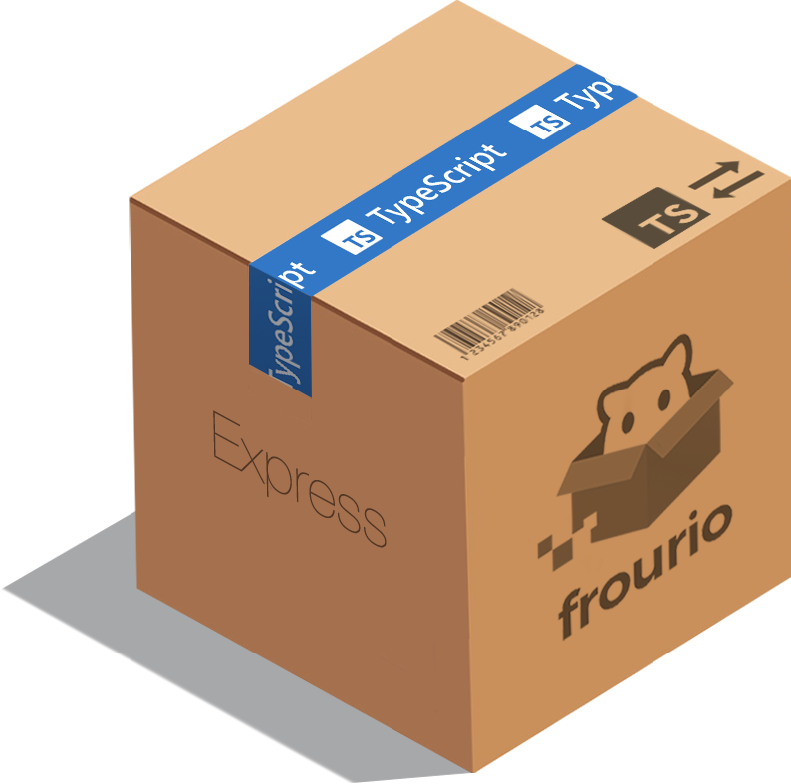
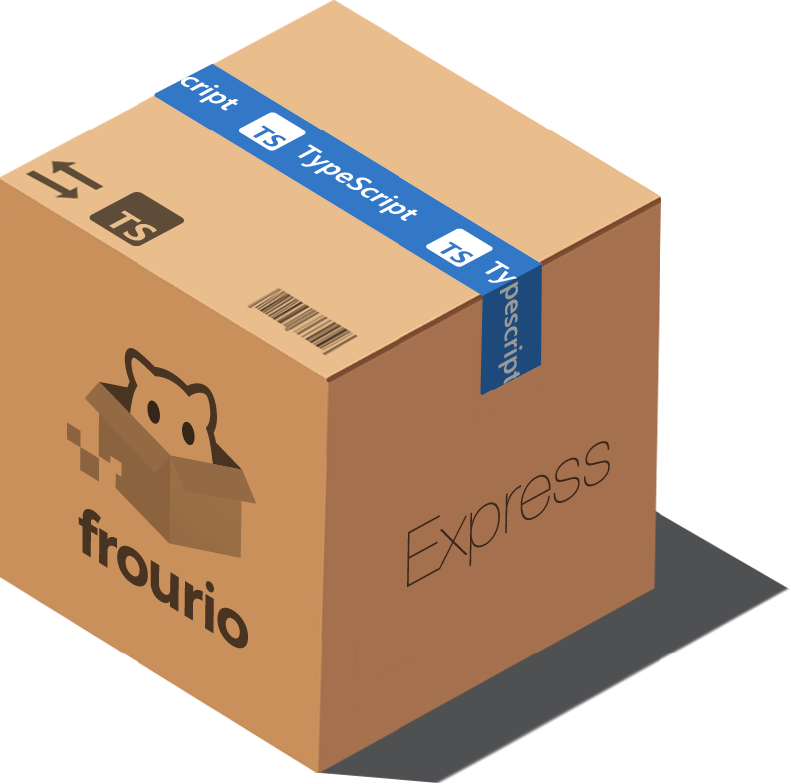
feat: flip moving boxes

diff --git a/src/components/movingBoxes.module.css b/src/components/movingBoxes.module.css
@@ -13,8 +13,8 @@
     min-height: 100vh;
     height: calc(100vw / 16 * 9);
     top: 50%;
-    left: 50%;
-    transform: translate(-50%, -50%);
+    left: 0;
+    transform: translate(0%, -50%);
 }
 
 .background {
@@ -27,12 +27,12 @@
     position: absolute;
     height: 100%;
     width: 100%;
-    background: linear-gradient(270deg, rgba(0, 0, 0, 0.0) 50%, rgba(0, 0, 0, 0.3) 100%);
+    background: linear-gradient(90deg, rgba(0, 0, 0, 0.0) 50%, rgba(0, 0, 0, 0.3) 100%);
 }
 
 .box {
     position: absolute;
-    left: 10%;
+    right: 10%;
     top: -30%;
     height: 31%;
     width: auto;
@@ -41,72 +41,72 @@
 
 @keyframes conveyor {
     2% {
-        left: 10%;
+        right: 10%;
         top: -30%;
         height: 31%;
     }
     3% {
-        left: 10%;
+        right: 10%;
         top: -9.7%;
         height: 30.9%;
     }
     3.6% {
-        left: 10%;
+        right: 10%;
         top: -10%;
         height: 30.9%;
     }
     5% {
-        left: 10%;
+        right: 10%;
         top: -10%;
         height: 30.9%;
     }
     10% {
-        left: 30%;
+        right: 30%;
         top: 8.6%;
         height: 32.5%;
     }
     15% {
-        left: 30%;
+        right: 30%;
         top: 8.6%;
         height: 32.5%;
     }
     20% {
-        left: 50%;
+        right: 50%;
         top: 27.2%;
         height: 34.1%;
     }
     25% {
-        left: 50%;
+        right: 50%;
         top: 27.2%;
         height: 34.1%;
     }
     30% {
-        left: 70%;
+        right: 70%;
         top: 45.8%;
         height: 35.7%;
     }
     35% {
-        left: 70%;
+        right: 70%;
         top: 45.8%;
         height: 35.7%;
     }
     40% {
-        left: 90%;
+        right: 90%;
         top: 64.4%;
         height: 37.3%;
     }
     45% {
-        left: 90%;
+        right: 90%;
         top: 64.4%;
         height: 37.3%;
     }
     50% {
-        left: 110%;
+        right: 110%;
         top: 83.2%;
         height: 38.9%;
     }
     100% {
-        left: 110%;
+        right: 110%;
         top: 83.2%;
         height: 38.9%;
     }

diff --git a/src/components/MovingBoxes.tsx b/src/components/MovingBoxes.tsx
@@ -18,11 +18,11 @@ const MovingBoxes: React.FC = () => {
             alt="box"
             className={clsx(classes.box)}
             key={`box${i}`}
-            style={{ animationDelay: `${6 * i}s` }}
+            style={{ animationDelay: `${-6 * i}s` }}
           />
         ))}
+        <div className={classes.shadow} />
       </div>
-      <div className={classes.shadow} />
     </div>
   )
 }
@@ -34,9 +34,9 @@ const boxList = [
   'MySQL',
   'Next',
   'Nuxt',
-  'FrourioChan',
+  'Open',
+  'Prisma',
   'React',
-  'Sapper',
   'Vue'
 ]
 
